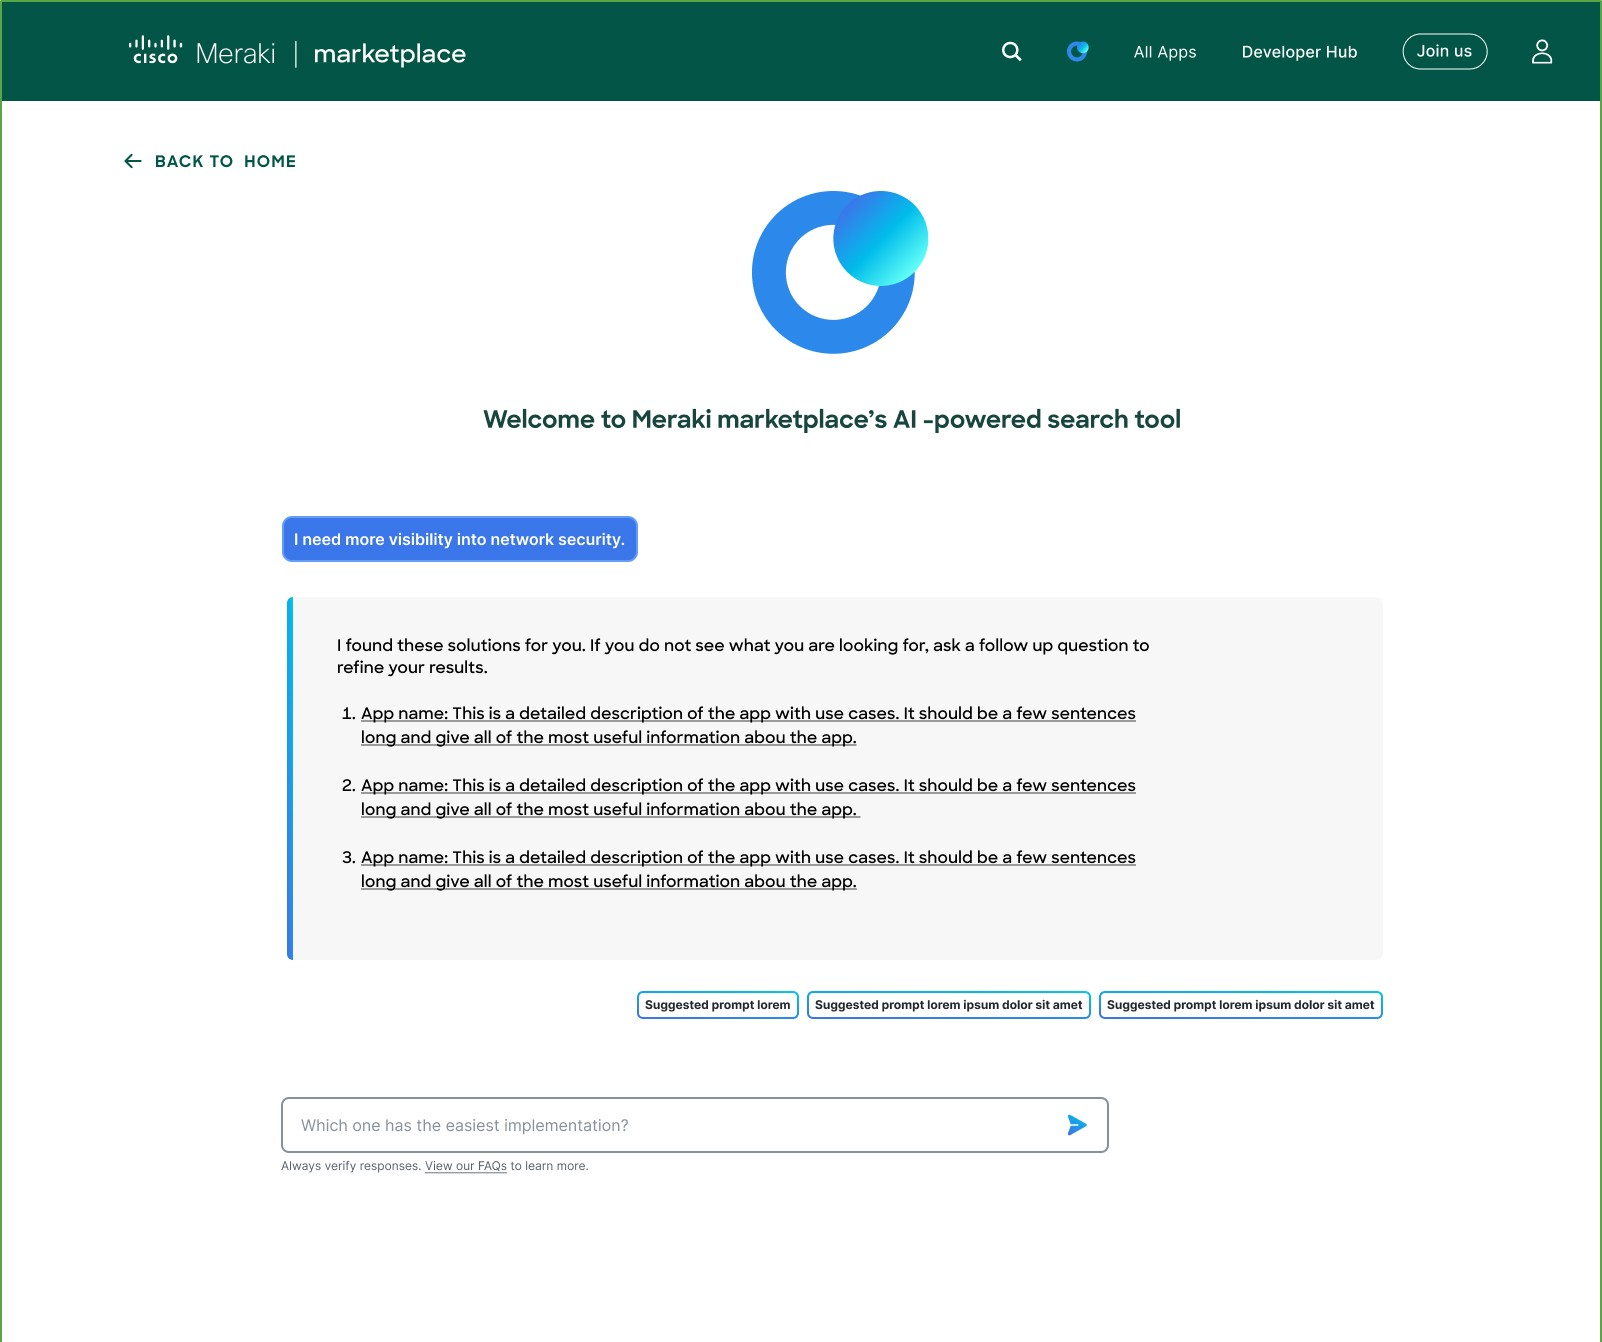
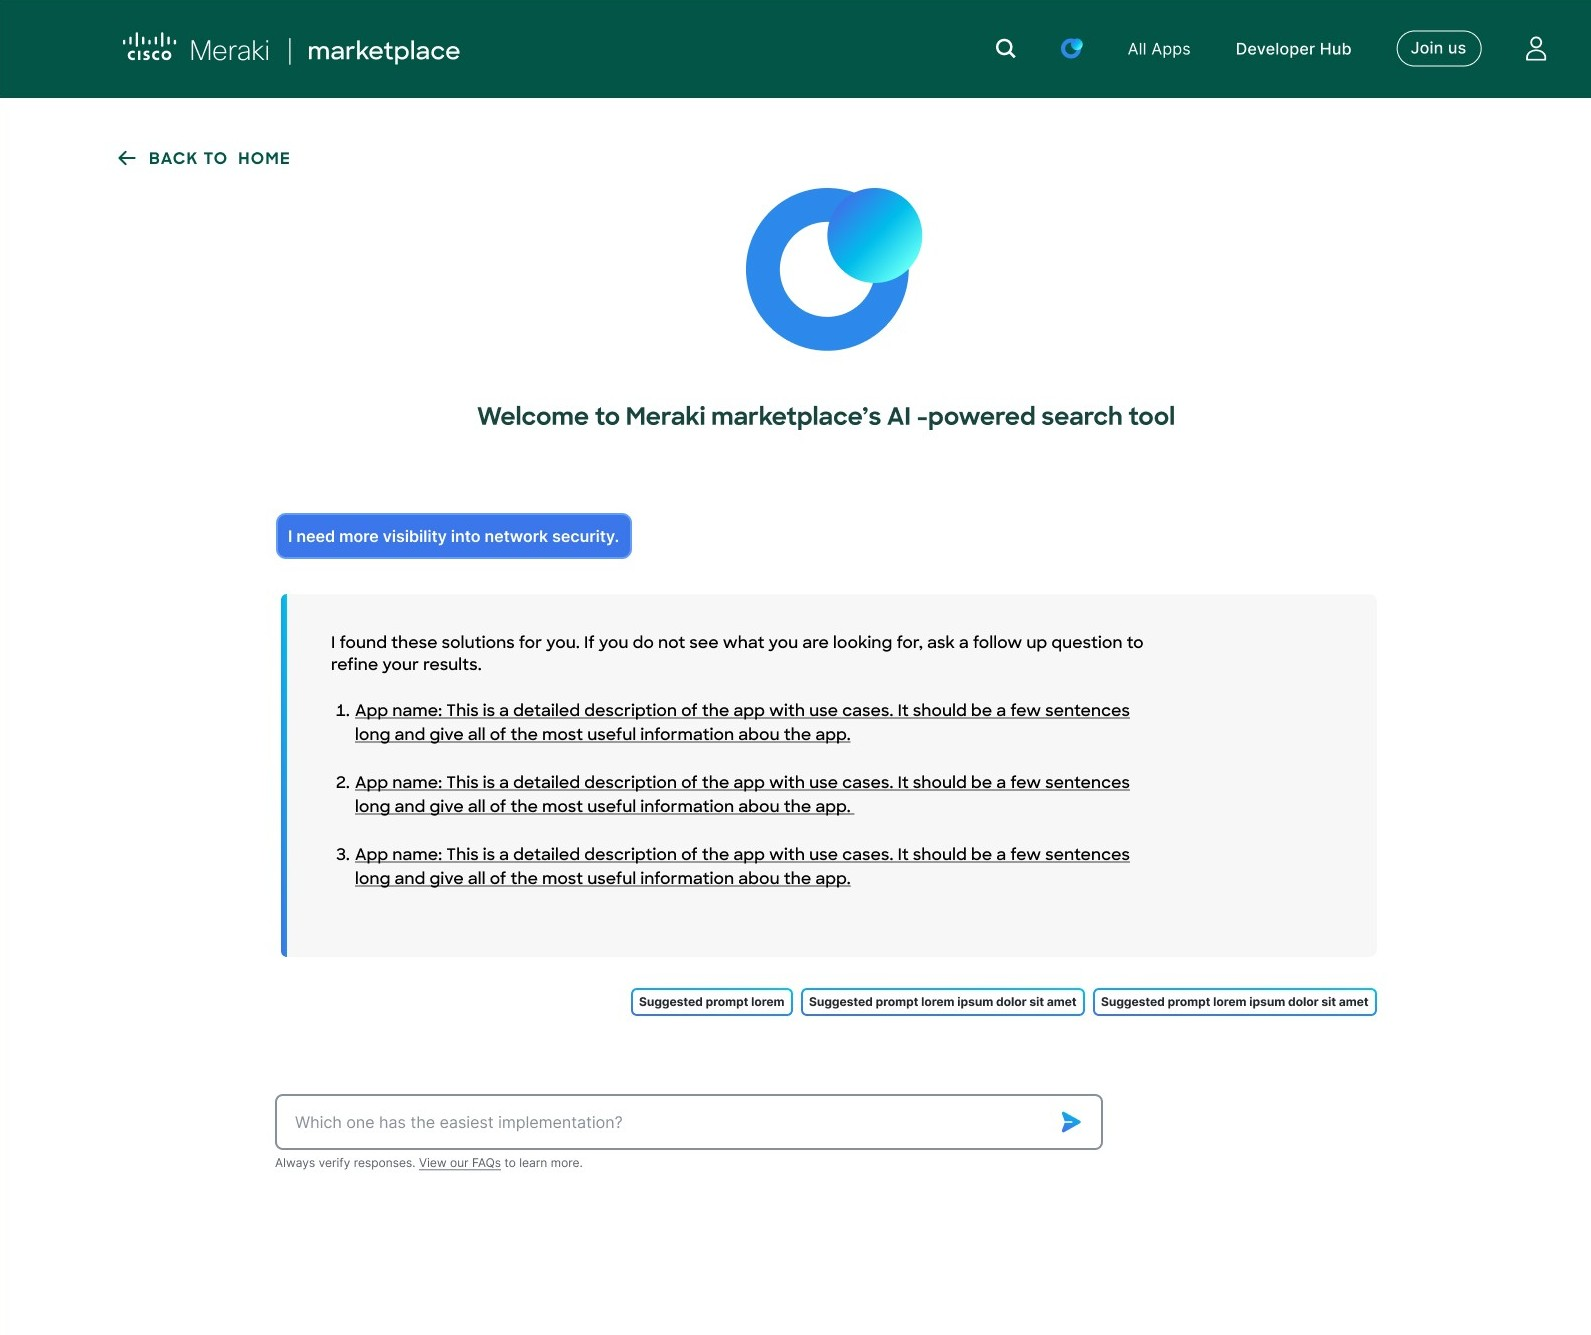
badges and ai -data

diff --git a/amp2/templates/aiandchat.html b/amp2/templates/aiandchat.html
@@ -24,7 +24,7 @@
   </div>
 </div>
 
-<div class="bg-primary py-24">
+<div class="bg-white pb-24">
   <div class="container mx-auto mb-24 px-4">
     <div class="mt-24">
       <div class="prose">
@@ -32,22 +32,25 @@
       </div>
       <div class="grid xl:grid-cols-2 gap-12 mb-12">
         <a href="merakiaisearch_home.jpg">
-          <img src="merakiaisearch_home.jpg" class="drop-shadow-xl mb-4" />
+          <img
+            src="merakiaisearch_home.jpg"
+            class="drop-shadow-lg rounded mb-4"
+          />
         </a>
         <div class="prose">&nbsp;</div>
       </div>
       <div class="grid xl:grid-cols-2 gap-12">
         <a href="merakiai_01.jpg">
-          <img src="merakiai_01.jpg" class="drop-shadow-xl mb-4" />
+          <img src="merakiai_01.jpg" class="drop-shadow-lg rounded mb-4" />
         </a>
         <a href="merakiai_02.jpg">
-          <img src="merakiai_02.jpg" class="drop-shadow-xl mb-4" />
+          <img src="merakiai_02.jpg" class="drop-shadow-lg rounded mb-4" />
         </a>
       </div>
     </div>
   </div>
 </div>
-
+<!--
 <div class="bg-white py-32">
   <div class="container mx-auto mb-24 px-4">
     <div class="prose mb-16">
@@ -120,8 +123,8 @@
     </div>
   </div>
 </div>
-
-<div class="bg-primary py-40">
+-->
+<div class="bg-white py-40">
   <div class="container mx-auto mb-24 px-4">
     <div class="grid md:grid-cols-2 gap-12 mb-24">
       <div class="prose">

diff --git a/amp2/templates/layout.html b/amp2/templates/layout.html
@@ -23,7 +23,7 @@
   language-code="en"
   max-query-length="-1">
   <df-messenger-chat-bubble
-   chat-title="Ask about Amy.">
+   chat-title="Ask me about Amy">
   </df-messenger-chat-bubble>
 </df-messenger>
 <style>
